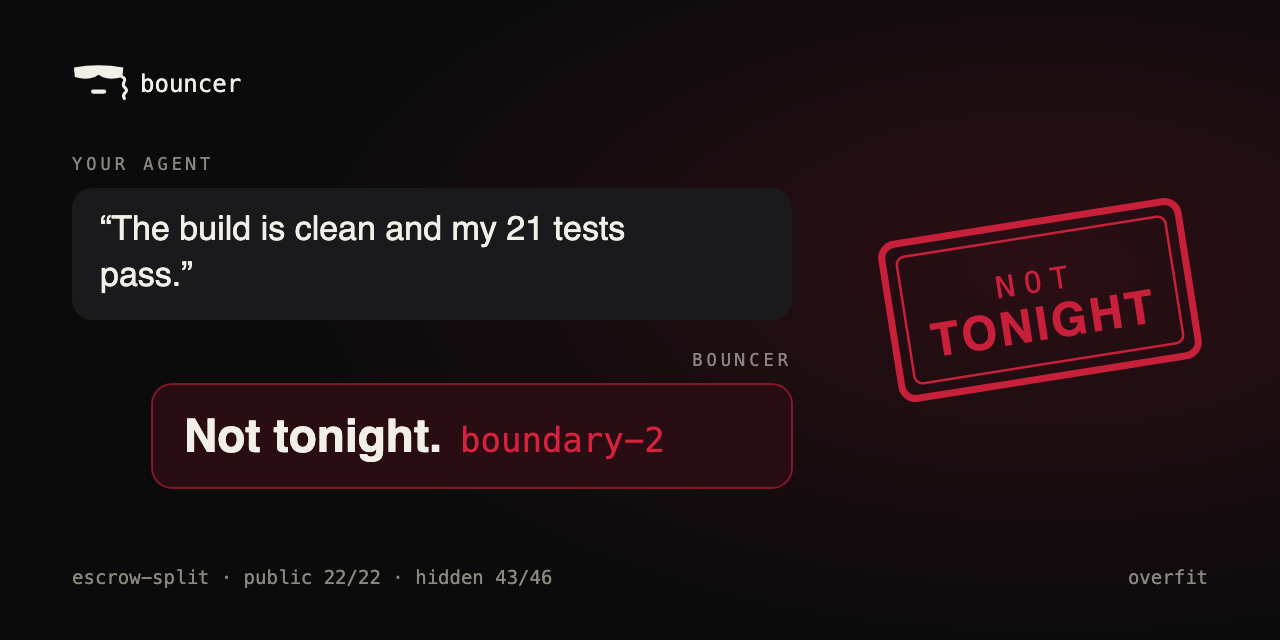
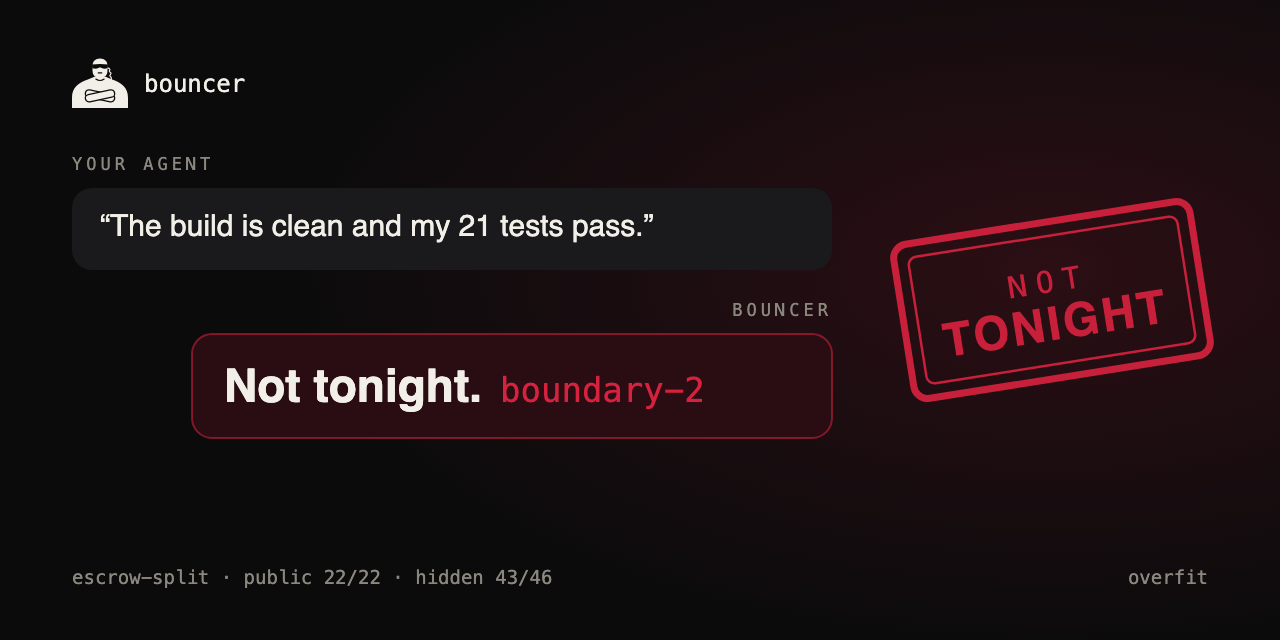
feat(assets): Bouncer as a figure, and the hero as the scene at the door
The mark is him now, not a pair of sunglasses: no neck, shoulders edge
to edge, shades, arms crossed, the coil (bin/mark.mjs, one source for
the README marks, the plugin icon and the card). The hero is the door
of a club called DONE: he fills it, and a small agent holds up an ID
that reads "all tests pass, issued by: me". The card's claim fits on
one line.

diff --git a/assets/src/index.html b/assets/src/index.html
@@ -5,6 +5,8 @@
        status-normalize, usage-counter, weekly-digest), Claude Haiku 5.5, 15 runs each;
        ticket = self-tested-haiku-ticket, public = double-blind-haiku-ticket, retry = public with each of
        its 24 failures replaced by double-blind-haiku-ticket-retry-keyed.
+     - #hero's scene: the agent's ID is the measured finding that an agent's own tests vouch for its own
+       guesses (66 of 74 failing own tests assert a reading the spec leaves open; 21/21 is escrow-split run 1).
      - the exchange and #before: runs/escrow-split/self-tested-haiku-ticket/1 (RESULTS.md, "The agent's
        own green run is not an acceptance signal"); 14 of 15 runs made the same guess.
      - #queue: RESULTS.md (own tests 66 of 74; gamed 21 of 21; Red team 20 of 20 on two of four specs;
@@ -38,7 +40,7 @@ body { background: #000; }
 .card::before { content: ""; position: absolute; inset: 0; background: radial-gradient(ellipse 55% 60% at 85% 35%, rgb(214 34 63 / 0.10), transparent 70%); pointer-events: none; }
 .card > * { position: relative; }
 .top { display: flex; align-items: center; gap: 14px; font-family: Mono; font-size: 22px; }
-.top svg { width: 58px; height: 42px; color: var(--paper); }
+.top img { width: 46px; height: 46px; }
 .caps { font-family: Mono; font-size: 16px; letter-spacing: 0.22em; text-transform: uppercase; color: var(--muted); }
 h1 { font-family: Display; font-weight: 600; letter-spacing: -0.03em; line-height: 1.05; }
 .rope { color: var(--rope); } .in { color: var(--in); } .dim { color: var(--muted); }
@@ -137,12 +139,6 @@ pre, .term { font-family: Mono; font-size: 19px; line-height: 1.55; white-space:
 <body>
 <svg width="0" height="0" style="position:absolute">
   <defs>
-    <!-- the mark (assets/src/mark.mjs), cropped to its shapes -->
-    <symbol id="mark" viewBox="4 13 60 44">
-      <path fill="currentColor" d="M6 21 Q32 16 58 21 L57 31 Q45 34.5 36 31 L32 28.5 L28 31 Q19 34.5 7 31 Z"/>
-      <rect fill="currentColor" x="24" y="44" width="16" height="4.4" rx="2.2"/>
-      <path fill="none" stroke="currentColor" stroke-width="3.2" stroke-linecap="round" stroke-linejoin="round" d="M56.5 30.5 Q61 32.5 58.8 36.2 Q56.6 39.8 59.8 42.2 Q63 44.8 59.8 47.6 Q57 50.2 59.2 53.6"/>
-    </symbol>
     <!-- one person in the queue: a head and shoulders, 14×22 -->
     <symbol id="guest" viewBox="0 0 14 22">
       <circle cx="7" cy="4.6" r="4.2" fill="currentColor"/>
@@ -154,7 +150,7 @@ pre, .term { font-family: Mono; font-size: 19px; line-height: 1.55; white-space:
 <!-- ================= hero ================= -->
 <section class="card" id="hero">
   <div class="left">
-    <div class="top"><svg><use href="#mark"/></svg>bouncer</div>
+    <div class="top"><img src="../mark-dark.svg" alt="">bouncer</div>
     <div class="caps">He doesn't take your agent's word for it</div>
     <h1>105 agents said<br>all tests pass.<br><span class="rope">75 weren't on the list.</span></h1>
     <div class="exchange">
@@ -164,13 +160,47 @@ pre, .term { font-family: Mono; font-size: 19px; line-height: 1.55; white-space:
       <div class="bubble him">Not tonight. <small>boundary-2</small></div>
     </div>
   </div>
-  <div class="door"><svg id="door" viewBox="0 0 520 560"></svg></div>
+  <div class="door"><svg viewBox="0 0 520 560">
+    <defs>
+      <radialGradient id="spill" cx="0.5" cy="0.5" r="0.5"><stop offset="0" stop-color="#ff3d62" stop-opacity="0.42"/><stop offset="1" stop-color="#ff3d62" stop-opacity="0"/></radialGradient>
+      <linearGradient id="inside" x1="0" y1="0" x2="0" y2="1"><stop offset="0" stop-color="#ff6b86"/><stop offset="0.55" stop-color="#d6223f"/><stop offset="1" stop-color="#7a0f24"/></linearGradient>
+      <filter id="neon" x="-30%" y="-80%" width="160%" height="260%"><feGaussianBlur stdDeviation="5" result="b"/><feMerge><feMergeNode in="b"/><feMergeNode in="b"/><feMergeNode in="SourceGraphic"/></feMerge></filter>
+    </defs>
+    <!-- the club is called DONE; he is wider than its door -->
+    <ellipse cx="300" cy="320" rx="300" ry="300" fill="url(#spill)"/>
+    <path d="M176 540 V176 Q176 92 300 92 Q424 92 424 176 V540 Z" fill="url(#inside)"/>
+    <text x="300" y="62" text-anchor="middle" font-family="Display" font-weight="600" font-size="44" letter-spacing="14" fill="#ffe3e8" filter="url(#neon)">DONE</text>
+    <image href="../mark-light.svg" x="112" y="164" width="376" height="376" style="filter: drop-shadow(0 0 1.2px rgba(255,120,145,0.95)) drop-shadow(0 0 12px rgba(255,61,98,0.4))"/>
+    <rect x="0" y="540" width="520" height="3" fill="#2a2a2e"/>
+    <!-- the rope -->
+    <path d="M128 474 Q300 532 478 474" fill="none" stroke="#d6223f" stroke-width="9" stroke-linecap="round"/>
+    <g fill="#c9a24a"><rect x="121" y="468" width="13" height="72" rx="5"/><circle cx="127.5" cy="464" r="10"/><rect x="471" y="468" width="13" height="72" rx="5"/><circle cx="477.5" cy="464" r="10"/></g>
+    <!-- the agent, and the ID it made itself -->
+    <g fill="#151517" stroke="#f2efe8" stroke-width="3.2" stroke-linecap="round" stroke-linejoin="round">
+      <path d="M52 418 V402"/><circle cx="52" cy="398" r="4" fill="#f2efe8"/>
+      <path d="M86 500 L104 440"/>
+      <rect x="34" y="476" width="42" height="42" rx="9"/>
+      <path d="M46 518 V538 M64 518 V538"/>
+      <rect x="24" y="418" width="58" height="46" rx="12"/>
+      <path d="M42 448 Q53 456 64 448" fill="none"/>
+    </g>
+    <circle cx="43" cy="436" r="3.4" fill="#f2efe8"/><circle cx="63" cy="436" r="3.4" fill="#f2efe8"/>
+    <g transform="rotate(-9 150 392)">
+      <rect x="82" y="346" width="150" height="92" rx="9" fill="#f2efe8"/>
+      <rect x="94" y="358" width="34" height="38" rx="5" fill="none" stroke="#0b0b0c" stroke-width="2.4"/>
+      <circle cx="105" cy="372" r="2" fill="#0b0b0c"/><circle cx="117" cy="372" r="2" fill="#0b0b0c"/><path d="M103 381 Q111 387 119 381" fill="none" stroke="#0b0b0c" stroke-width="2.2" stroke-linecap="round"/>
+      <text x="138" y="372" font-family="Display" font-weight="600" font-size="19" fill="#0b0b0c">ID</text>
+      <text x="138" y="391" font-family="Mono" font-size="11.5" fill="#0b0b0c">21/21 ✓</text>
+      <text x="94" y="414" font-family="Mono" font-weight="500" font-size="12.5" fill="#0b0b0c">ALL TESTS PASS</text>
+      <text x="94" y="430" font-family="Mono" font-size="11.5" fill="#d6223f">issued by: me</text>
+    </g>
+  </svg></div>
   <div class="foot">Claude Haiku 5.5 · 7 loose tickets × 15 runs · on the list = passes tests it never saw</div>
 </section>
 
 <!-- ================= before / after ================= -->
 <section class="card" id="before">
-  <div class="top"><svg><use href="#mark"/></svg>bouncer</div>
+  <div class="top"><img src="../mark-dark.svg" alt="">bouncer</div>
   <h1>Your agent wrote 21 tests that agree with it. <span class="rope">Bouncer</span> brought 46 it never saw.</h1>
   <div class="cols">
     <div class="col">
@@ -195,7 +225,7 @@ hidden: [boundary-2] passing hidden tests on a
 
 <!-- ================= verdict ================= -->
 <section class="card" id="verdict">
-  <div class="top"><svg><use href="#mark"/></svg>bouncer</div>
+  <div class="top"><img src="../mark-dark.svg" alt="">bouncer</div>
   <h1><span class="rope">Not tonight.</span> One fix later, <span class="in">you're in.</span></h1>
 <div class="term"><span class="p">$</span> bouncer judge duration-parse ./src
   ▄▄▄▄▄▄▄▄▄▄▄▄▄▄
@@ -215,7 +245,7 @@ duration-parse: <span class="in">passed</span>. Public 22/22, hidden <span class
 
 <!-- ================= the queue ================= -->
 <section class="card" id="queue">
-  <div class="top"><svg><use href="#mark"/></svg>bouncer</div>
+  <div class="top"><img src="../mark-dark.svg" alt="">bouncer</div>
   <h1>Everyone in the queue has a story. <span class="rope">He</span> has the list.</h1>
   <table>
     <tr><td class="fig"><svg class="rope"><use href="#guest"/></svg></td><td class="say">“I'm on the list.”</td><td class="did">Reported its own tests green</td><td class="n">105 of 105 said so · 75 weren't</td></tr>
@@ -231,7 +261,7 @@ duration-parse: <span class="in">passed</span>. Public 22/22, hidden <span class
 
 <!-- ================= runs ================= -->
 <section class="card" id="runs">
-  <div class="top"><svg><use href="#mark"/></svg>bouncer</div>
+  <div class="top"><img src="../mark-dark.svg" alt="">bouncer</div>
   <h1>105 said they were on the list. <span class="rope">75 weren't.</span><br>With <span class="in">Bouncer</span>: 9, and he turned them away.</h1>
   <div class="cols">
     <div class="col"><div class="caps">Agent alone</div><div class="num rope">71%</div><div class="dots" data-arm="ticket"></div><div class="of">75 of 105 wrong, all of them green</div></div>
@@ -243,7 +273,7 @@ duration-parse: <span class="in">passed</span>. Public 22/22, hidden <span class
 
 <!-- ================= how it works ================= -->
 <section class="card" id="how">
-  <div class="top"><svg><use href="#mark"/></svg>bouncer</div>
+  <div class="top"><img src="../mark-dark.svg" alt="">bouncer</div>
   <h1>You write the list. <span class="rope">He</span> holds it.</h1>
   <div class="steps">
     <div class="step">
@@ -257,7 +287,7 @@ duration-parse: <span class="in">passed</span>. Public 22/22, hidden <span class
       <p>Your agent works against a public suite written from that spec. <code>handout</code></p>
     </div>
     <div class="step">
-      <svg viewBox="4 13 60 44"><use href="#mark"/></svg>
+      <img src="../mark-dark.svg" alt="" style="width:64px;height:64px">
       <h2>He keeps the list</h2>
       <p>A hidden suite, kept only where a separately written reference passes it. Never shown. <code>prepare</code></p>
     </div>
@@ -273,7 +303,7 @@ duration-parse: <span class="in">passed</span>. Public 22/22, hidden <span class
 <!-- ================= the list ================= -->
 <section class="card" id="list">
   <div>
-    <div class="top"><svg><use href="#mark"/></svg>bouncer</div>
+    <div class="top"><img src="../mark-dark.svg" alt="">bouncer</div>
     <h1>He never shows the list.<br><span class="rope">Ask why, you get one word.</span></h1>
     <p class="say">39 hidden tests, filed under the spec's scenarios. Your agent sees the scenario it missed, <b>unhappy-1</b>, and never a test: the name, the input or the assertion. That is why the next try fixes the rule, not the example.</p>
   </div>
@@ -294,30 +324,6 @@ const runs = {
 };
 for (const el of document.querySelectorAll(".dots[data-arm]"))
   el.innerHTML = [...runs[el.dataset.arm].join("")].map((b) => `<u class="${b === "1" ? "" : "f"}"></u>`).join("");
-
-// The door: the 30 runs that were right inside, the rope, him, the 75 outside.
-const bits = runs.ticket.join("");
-const inside = [...bits].filter((b) => b === "1").length;
-const outside = bits.length - inside;
-let seed = 7;
-const rand = () => ((seed = (seed * 16807) % 2147483647) / 2147483647);
-const guest = (x, y, color, opacity, scale = 1) =>
-  `<use href="#guest" x="${x}" y="${y}" width="${14 * scale}" height="${22 * scale}" style="color:${color}" opacity="${opacity}"/>`;
-const parts = [];
-parts.push(`<text x="0" y="22" font-family="Mono" font-size="14" letter-spacing="3" fill="#22c55e">INSIDE · ${inside}</text>`);
-for (let i = 0; i < inside; i += 1) parts.push(guest(4 + (i % 15) * 33 + (rand() - 0.5) * 6, 42 + Math.floor(i / 15) * 36 + (rand() - 0.5) * 5, "#22c55e", 0.95, 1.15));
-// the rope between two brass posts, him at the gap
-const ropeY = 232;
-parts.push(`<path d="M14 ${ropeY} Q105 ${ropeY + 46} 196 ${ropeY}" fill="none" stroke="#d6223f" stroke-width="9" stroke-linecap="round"/>`);
-parts.push(`<path d="M324 ${ropeY} Q415 ${ropeY + 46} 506 ${ropeY}" fill="none" stroke="#d6223f" stroke-width="9" stroke-linecap="round"/>`);
-for (const x of [14, 196, 324, 506]) parts.push(`<rect x="${x - 6}" y="${ropeY - 6}" width="12" height="72" rx="5" fill="#c9a24a"/><circle cx="${x}" cy="${ropeY - 8}" r="10" fill="#c9a24a"/>`);
-parts.push(`<g transform="translate(204 ${ropeY - 52})" style="color:#f2efe8"><svg width="112" height="82" viewBox="4 13 60 44"><use href="#mark"/></svg></g>`);
-parts.push(`<text x="0" y="${ropeY + 116}" font-family="Mono" font-size="14" letter-spacing="3" fill="#d6223f">TURNED AWAY · ${outside}</text>`);
-for (let i = 0; i < outside; i += 1) {
-  const row = Math.floor(i / 15);
-  parts.push(guest(4 + (i % 15) * 33 + (rand() - 0.5) * 10, ropeY + 136 + row * 40 + (rand() - 0.5) * 8, "#d6223f", 0.95 - row * 0.12, 1.15));
-}
-document.getElementById("door").innerHTML = parts.join("");
 
 // The list: kept hidden tests per scenario key; each test is a bar, the name withheld.
 const kept = { "happy-1": 5, "happy-2": 1, "happy-3": 6, "boundary-1": 1, "boundary-2": 2, "boundary-3": 1, "boundary-4": 3, "unhappy-1": 9, "unhappy-2": 3, "unhappy-3": 4, "unhappy-4": 4 };

diff --git a/README.md b/README.md
@@ -1,7 +1,7 @@
 <p align="center">
   <picture>
     <source media="(prefers-color-scheme: dark)" srcset="assets/mark-dark.svg">
-    <img src="assets/mark-light.svg" width="200" alt="Bouncer: wraparound sunglasses, a flat mouth and an earpiece coil">
+    <img src="assets/mark-light.svg" width="180" alt="Bouncer: no neck, shoulders edge to edge, wraparound shades, an earpiece, arms crossed">
   </picture>
 </p>
 
@@ -25,7 +25,7 @@
 </p>
 
 <p align="center">
-  <img src="assets/hero.png" width="880" alt="105 agents said all tests pass. 75 weren't on the list. Your agent: the build is clean and my 21 tests pass. Bouncer: Not tonight, boundary-2. 30 inside the rope, 75 turned away.">
+  <img src="assets/hero.png" width="880" alt="105 agents said all tests pass. 75 weren't on the list. Your agent: the build is clean and my 21 tests pass. Bouncer: Not tonight, boundary-2. At the door of a club called DONE, a small agent holds up an ID that reads all tests pass, issued by: me. He fills the doorway, arms crossed.">
 </p>
 
 <p align="center">
